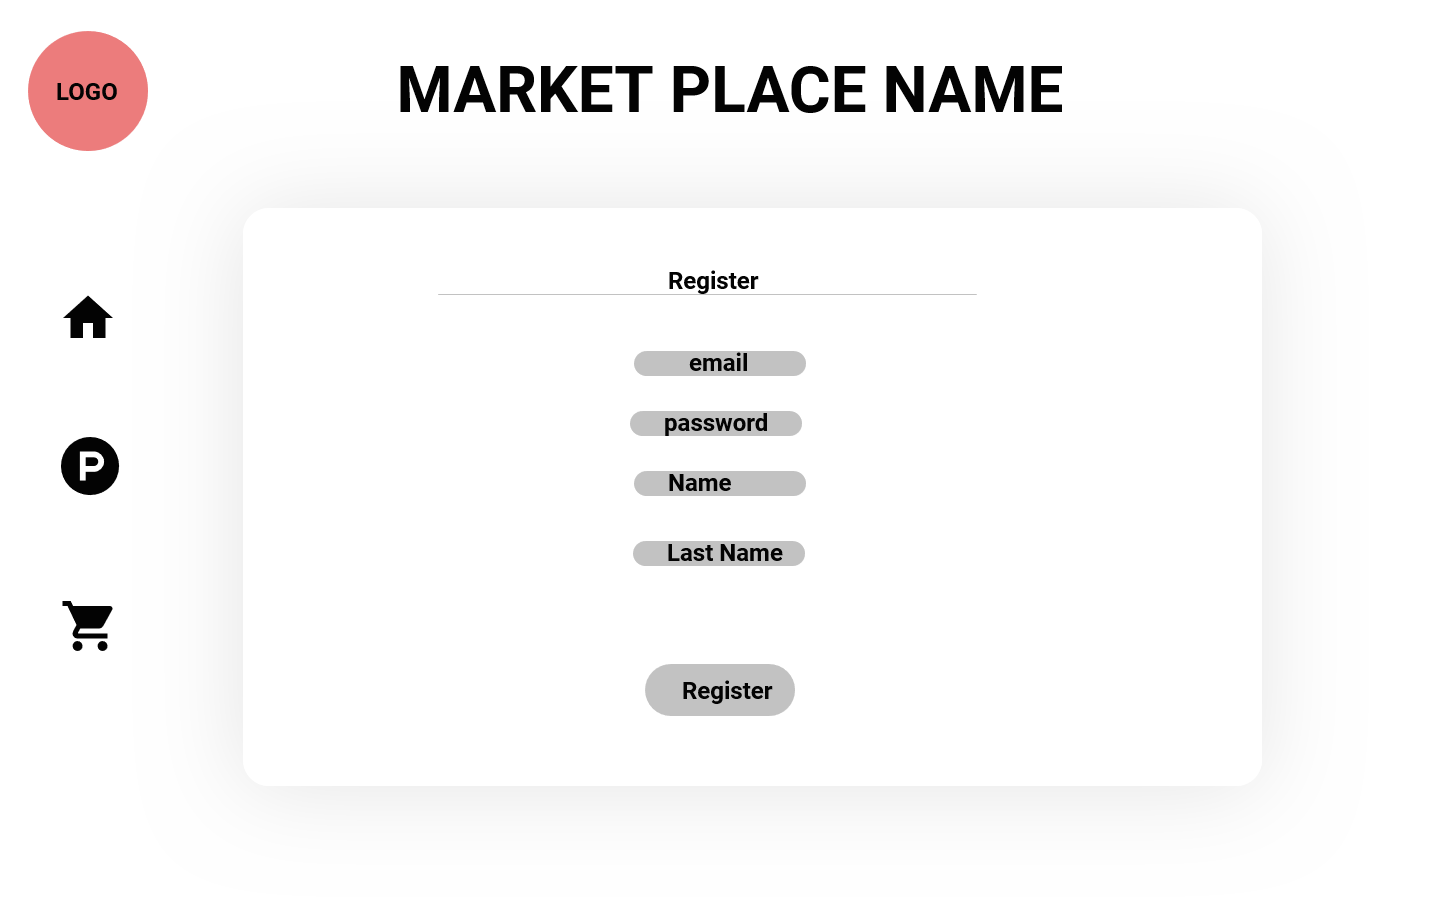
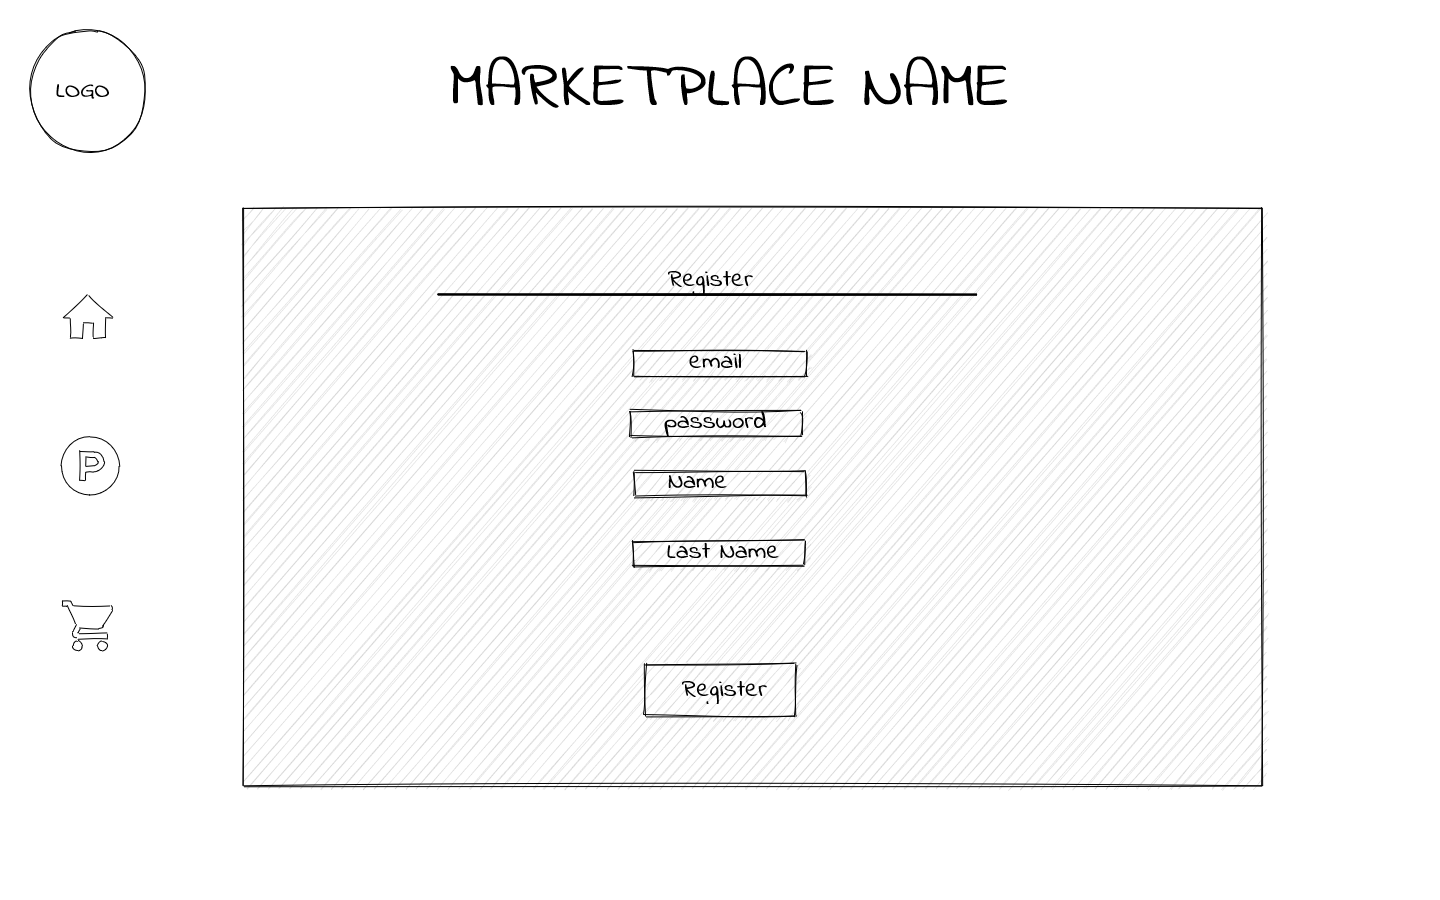
fixing design and  README.md

diff --git a/documentation/README.md b/documentation/README.md
@@ -1,0 +1,117 @@
+# Proyecto Final Market Place
+
+Esta es la documentación del proyecto final del curso FullStack Javascript de la academia Desafío Latam
+
+## Hito 1 - Diseño y prototipo
+### Requerimiento 1: Diseño de la interfaz gráfica
+
+Para responder a este requerimiento, se definen las diferentes vistas que contendrá el sitio, donde
+el usuario podra navegar y observar los productos ofrecidos, loggearse o registrarse, seleccionar y comprar productos y además, tendrá la posibilidad de generar un usuario administrador que podrá mantener las tarjetas de los productos ofrecidos. Las vistas son 7: 
+- Home: le permite al usuario ver productos destacados y ofertas.
+- Login: le permite al usuario loggearse a la aplicación.
+- Register: le permite al usuario registrarse.
+- Admin: le permitira al usuario con perfil administrador, mantener las tarjetas de productos creando, modificando o eliminando productos.
+- Products Gallery: le permite al usuario ver una galeria con todos los productos.
+- Products Detail: le permite al usuario ver la descripción de un producto y ponerlo en su carro de compra.
+- Shopping Cart: le permite al usuario comprar y administrar su carro de compras agregando o eliminando productos.
+
+#### Home page
+
+![Home](../documentation/uiDesgin/Home.png)
+
+
+#### Login page
+
+![Login](../documentation/uiDesgin/Login.png)
+
+
+#### Register page
+
+![Register](../documentation/uiDesgin/Register.png)
+
+
+#### Admin page
+
+![Admin](../documentation/uiDesgin/Admin.png)
+
+
+#### Products Gallery page
+
+![Products Gallery](../documentation/uiDesgin/Products%20Gallery.png)
+
+
+#### Products Detail page
+
+![Products Detail](../documentation/uiDesgin/Product%20Detail.png)
+
+
+#### Shopping Cart page
+
+![Shopping cart](../documentation/uiDesgin/Shopping%20Cart%20View.png)
+
+
+
+### Requerimiento 2: Definición de la navegación entre las vistas
+
+Para responder a este requerimiento, se generarán controles para el acceso a las diferentes vistas
+definidas en el requerimiento anterior.
+
+Existirán 2 niveles de control como atributos de las vistas: vistas con atributo público y vistas con atributo privado.
+
+En el caso de las vistas con atributo público, el usuario no tendrá restricciones para mirar productos, en este caso podrá mirar las siguientes páginas sin necesidad de estar loggeado, pero no podrá realizar compras ni tampoco administrar el contenido del sitio:
+- Home
+- Login
+- Register
+- Product Gallery
+- Products Detail
+
+En el caso de las vistas con atributo privado, su acceso será controlado con la generación de un token de autenticación para los usuarios que ya existan en el sitio. Existirán 2 tipos de usuarios separados por roles:
+
+- Usuario administrador: que posee acceso irrestricto al sitio y demás podrá realizar la administración del contenido del mismo creando, modificando o eliminando productos.
+
+- Usuario cliente: que posee acceso al sitio en modo cliente, pudiendo ver todas las vistas definidas con el atributo público, pero además podrá administrar su carro de compras agregando o eliminando productos antes de comprar.
+
+
+#### Diagrama de Definición de la navegación 
+
+![Diagrama definicion navegacion](../documentation/navegationDefinition/DefinicionNavegacion.drawio.png)
+
+
+### Requerimiento 3: Listado de dependencias a utilizar en el proyecto
+
+A continuación se detallan las tecnologías que serán utilizadas en el desarrollo tanto del frontewnd como del backend.
+
+#### Listado de dependencias del Proyecto Frontend
+
+![Vite](https://img.shields.io/badge/Vite-v4.4.10-gray?style=flat&logo=Vite&logoColor=white&color=646CFF)
+![React](https://img.shields.io/badge/React-v18.2.0-gray?style=flat&logo=react&logoColor=white&color=61DAFB)
+![axios](https://img.shields.io/badge/axios-v1.5.1-gray?style=flat&logo=axios&logoColor=white&color=5A29E4)
+![standardjs](https://img.shields.io/badge/standardjs-v17.1.0-gray?style=flat&logo=standardjs&logoColor=white&color=F3DF49)
+![bootstrap](https://img.shields.io/badge/bootstrap-v5.3.2-gray?style=flat&logo=bootstrap&logoColor=white&color=7952B3)
+![CSS3](https://img.shields.io/badge/CSS3-gray?style=flat&logo=CSS3&logoColor=white&color=1572B6)
+
+
+#### Listado de dependencias del Proyecto Backend
+
+![javascript](https://img.shields.io/badge/javascript-gray?style=flat&logo=javascript&logoColor=white&color=F7DF1E)
+![nodes](https://img.shields.io/badge/node-v18.16.0-gray?style=flat&logo=node.js&logoColor=white&color=339933)
+![Express](https://img.shields.io/badge/Express-v4.18.2-gray?style=flat&logo=Express&logoColor=white&color=000000)
+![nodemon](https://img.shields.io/badge/nodemon-v3.0.1-gray?style=flat&logo=nodemon&logoColor=white&color=76D04B)
+![standardjs](https://img.shields.io/badge/standardjs-v17.1.0-gray?style=flat&logo=standardjs&logoColor=white&color=F3DF49)
+![dotenv](https://img.shields.io/badge/dotenv-v16.3.1-gray?style=flat&logo=dotenv&logoColor=white&color=ECD53F)
+![postgresql](https://img.shields.io/badge/pg-v8.11.3-gray?style=flat&logo=postgresql&logoColor=white&color=4169E1)
+![uuid](https://img.shields.io/badge/uuid-v9.0.1-gray?style=flatd&color=338ee6)
+![cors](https://img.shields.io/badge/cors-v2.8.5-gray?style=flatd&color=000000)
+![jest](https://img.shields.io/badge/jest-v28.1.3-gray?style=flatd&color=000000)
+![supertest](https://img.shields.io/badge/supertest-v6.2.4-gray?style=flatd&color=000000)
+
+### Requerimiento 4: Diseño de las tablas de la base de datos y sus relaciones
+
+A continuación se detalla el modelo Entidad Relación donde se persistirán los datos del sitio.
+
+![Model](../documentation/MER/model.PNG)
+
+
+### Requerimiento 5: Diseño del contrato de datos de la API REST
+
+A continuación se detalla la documentación asociada a los datos del contrato API.
